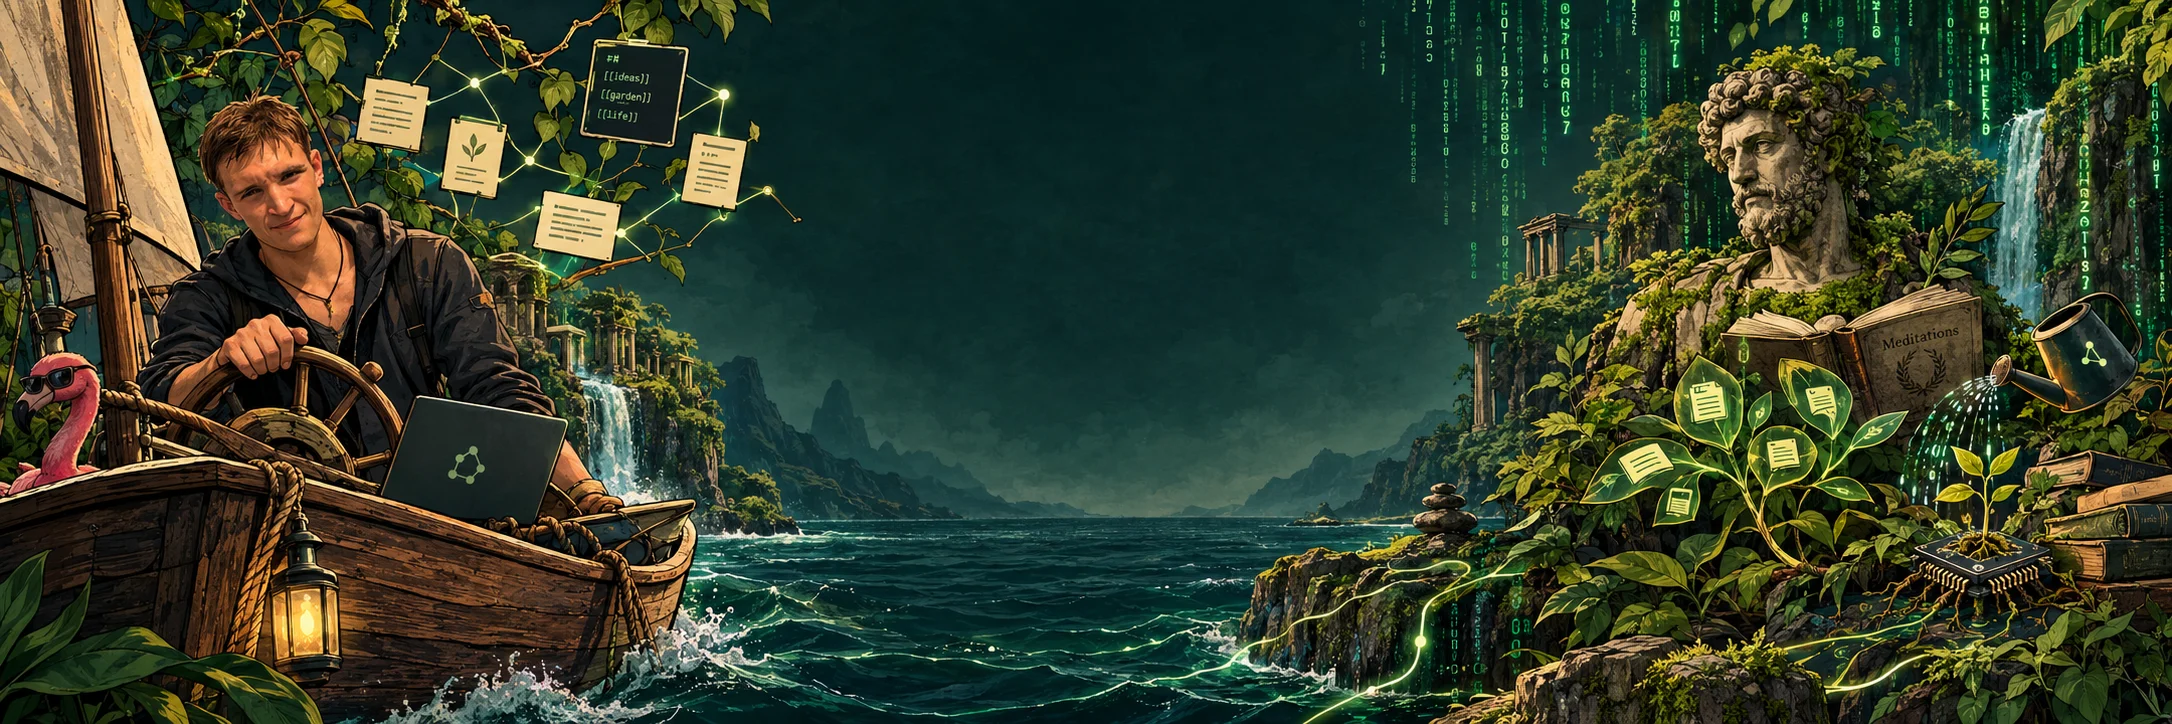
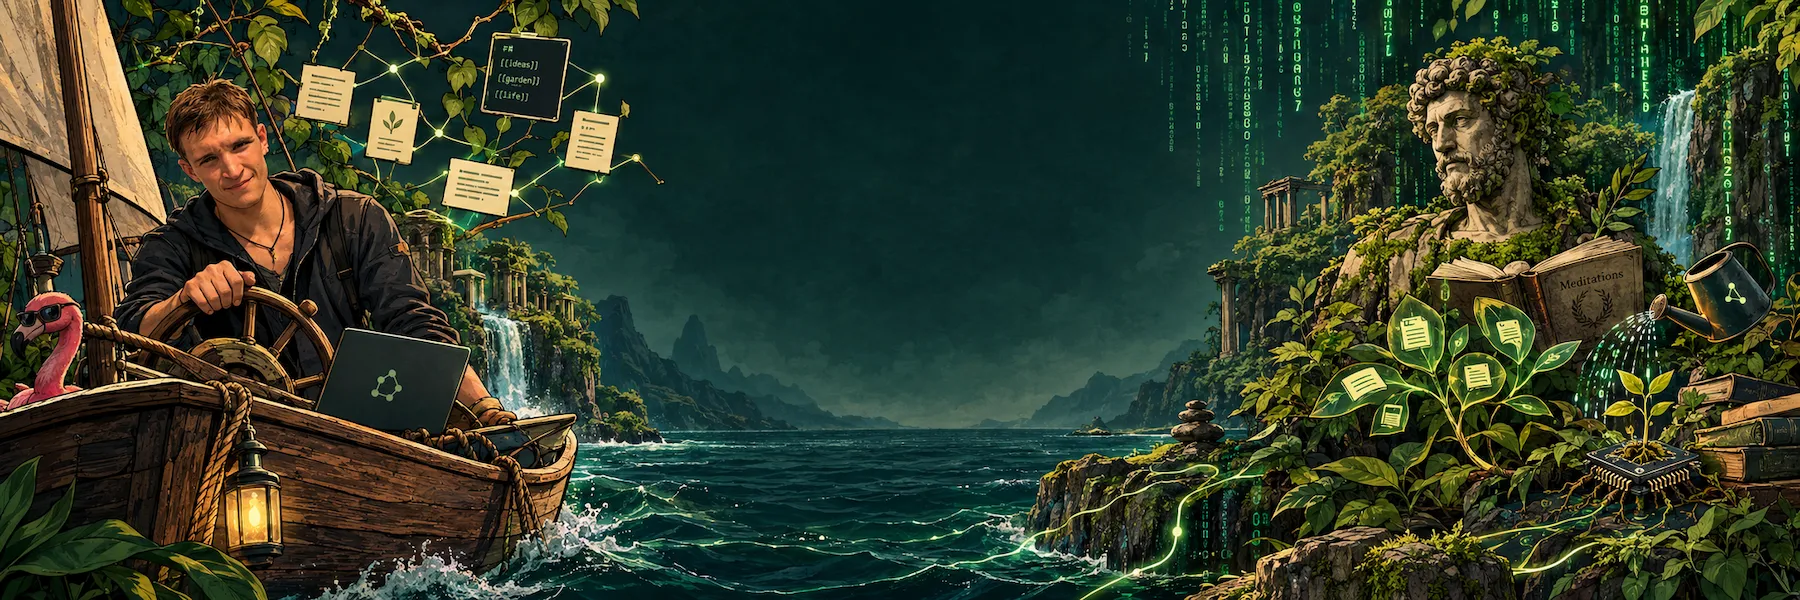
Allegerita immagine home, aggiunto stile di apparizione testo per quando viene caricata la pagina

diff --git a/quartz/styles/custom.scss b/quartz/styles/custom.scss
@@ -95,3 +95,25 @@ body[data-slug="index"] .article-title {
     background-position: 0 0, 0 0, center 35%;
   }
 }
+@keyframes scrittura-dolce {
+  from { opacity: 0; transform: translateY(12px); filter: blur(4px); }
+  to   { opacity: 1; transform: translateY(0);    filter: blur(0); }
+}
+
+body[data-slug="index"] .markdown-preview-view > * {
+  animation: scrittura-dolce 1.4s cubic-bezier(0.22, 0.61, 0.36, 1) both;
+  animation-delay: 1.8s;   // blocchi oltre il dodicesimo
+}
+
+// un blocco dopo l'altro, come se si scrivesse riga dopo riga
+@for $i from 1 through 12 {
+  body[data-slug="index"] .markdown-preview-view > *:nth-child(#{$i}) {
+    animation-delay: #{$i * 0.15}s;
+  }
+}
+
+@media (prefers-reduced-motion: reduce) {
+  body[data-slug="index"] .markdown-preview-view > * {
+    animation: none;
+  }
+}
